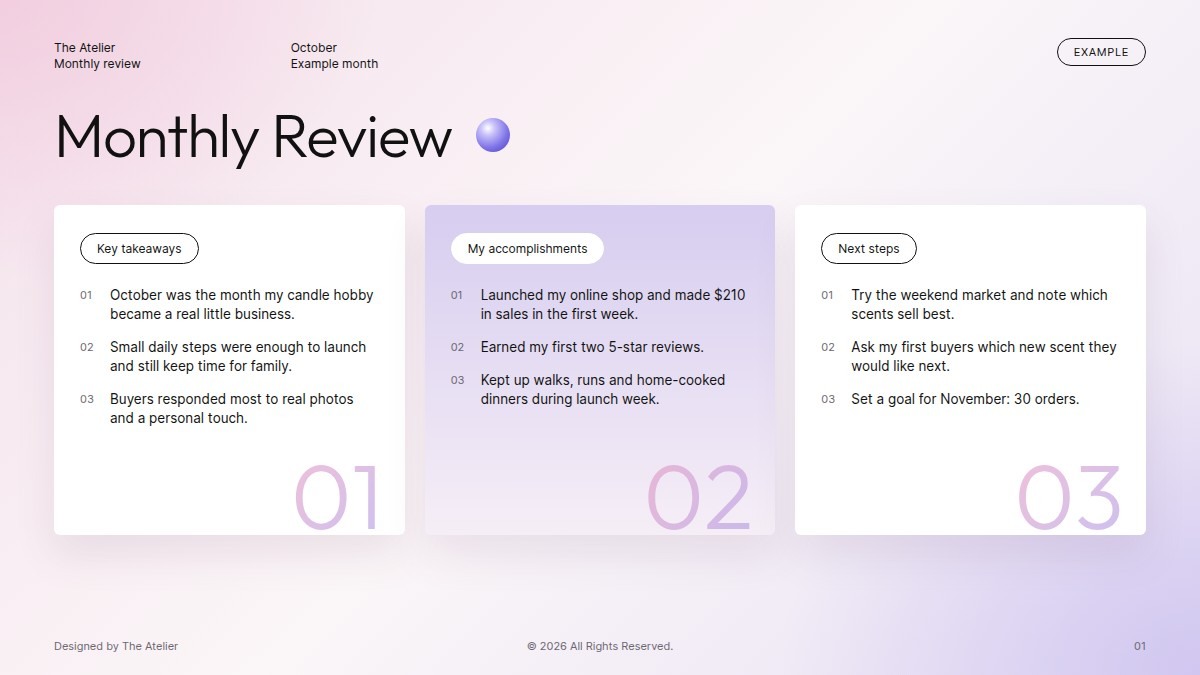
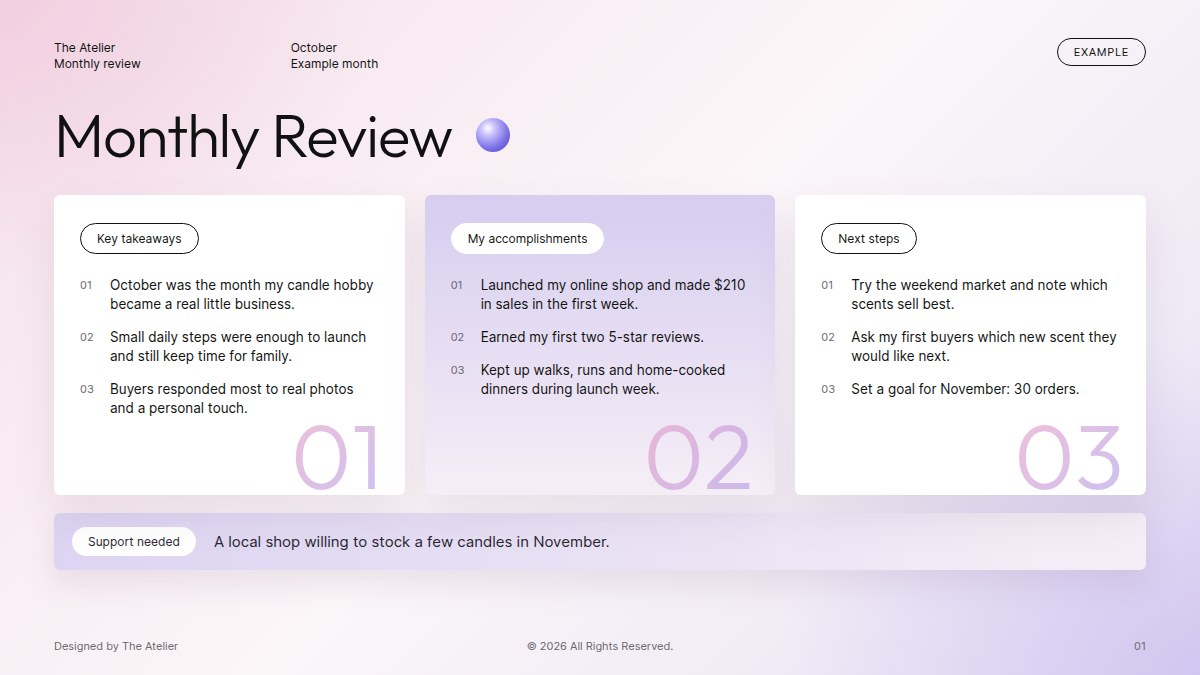
What you get: end of day with Completed, In progress, Next steps and Support needed; reviews show Support needed

diff --git a/index.html b/index.html
@@ -2633,6 +2633,10 @@ b, strong, .exportbtn, .crumbs .crumb[aria-current="page"], .seg button[aria-pre
 .pg .pg-empty { margin: 18px 0 0; font-size: 13px; color: #8A8392; }
 .pg .pg-big { position: absolute; right: 16px; bottom: -8px; font-size: 86px; font-weight: 300; line-height: 1; pointer-events: none;
   background: linear-gradient(135deg, rgba(232, 150, 190, 0.55), rgba(170, 150, 232, 0.55)); -webkit-background-clip: text; background-clip: text; color: transparent; }
+.pg-support { display: flex; align-items: center; gap: 16px; margin-top: 16px; padding: 14px 18px; border-radius: 10px; background: linear-gradient(90deg, #DCD4F2 0%, #F6EEF6 100%); box-shadow: 0 16px 32px rgba(120, 86, 120, 0.12); }
+.pg-support .pg-cpill { flex: none; background: #FFFFFF; border-color: #FFFFFF; }
+.pg-sup-text { margin: 0; font-size: 14px; line-height: 1.45; color: #2A2530; }
+@media (max-width: 640px) { .pg-support { flex-direction: column; align-items: flex-start; gap: 10px; } }
 .pg-foot { display: flex; justify-content: space-between; margin-top: 22px; font-size: 11px; color: #5E5866; }
 .pg .pg-copy { margin-top: 4px; text-align: center; font-size: 10px; color: #5E5866; }
 .pg-bar { display: flex; flex-wrap: wrap; align-items: center; gap: 10px 16px; margin: 14px 4px 0; }
@@ -2745,7 +2749,7 @@ b, strong, .exportbtn, .crumbs .crumb[aria-current="page"], .seg button[aria-pre
       <h2 id="introEx" class="wyg-pill">What you get</h2>
       <p class="wyg-lead">Your progress, written<br class="wyg-br"> up for you.</p>
       <div class="wyg-row"><span class="wyg-num">01</span><div><h3>End of day</h3><p>A short end-of-day update, ready to send.</p>
-        <div class="wyg-eod"><b>End of day, Wed Oct 21</b><span><i>Focus:</i> Open the shop</span><span><i>Plan:</i> 3 of 4 done</span><span><i>Finished:</i> Publish the shop; Post the launch; Tell 10 friends</span><span><i>Still open:</i> Read 20 pages</span><span><i>First task tomorrow:</i> Pack the first orders</span></div></div></div>
+        <div class="wyg-eod"><b>End of day, Wed Oct 21</b><span><i>Focus:</i> Open the shop</span><span><i>Plan:</i> 3 of 4 done</span><span><i>Completed:</i> Published the shop; posted the launch; told 10 friends</span><span><i>In progress:</i> Packing the first 3 orders</span><span><i>Next steps:</i> Ship the orders by Thursday night</span><span><i>Support needed:</i> A friend to help pack on Thursday</span></div></div></div>
       <div class="wyg-two">
         <div><span class="wyg-num">02</span><h3>Every week</h3><p>AI drafts your Weekly Review.</p><div class="wyg-shot"><img src="example-week.jpg" alt="Example Weekly Review one-pager for a small candle shop: key takeaways, my accomplishments and next steps" loading="lazy"></div></div>
         <div><span class="wyg-num">03</span><h3>Every month</h3><p>AI drafts your Monthly Review.</p><div class="wyg-shot"><img src="example-month.jpg" alt="Example Monthly Review one-pager for a small candle shop: key takeaways, my accomplishments and next steps" loading="lazy"></div></div>
